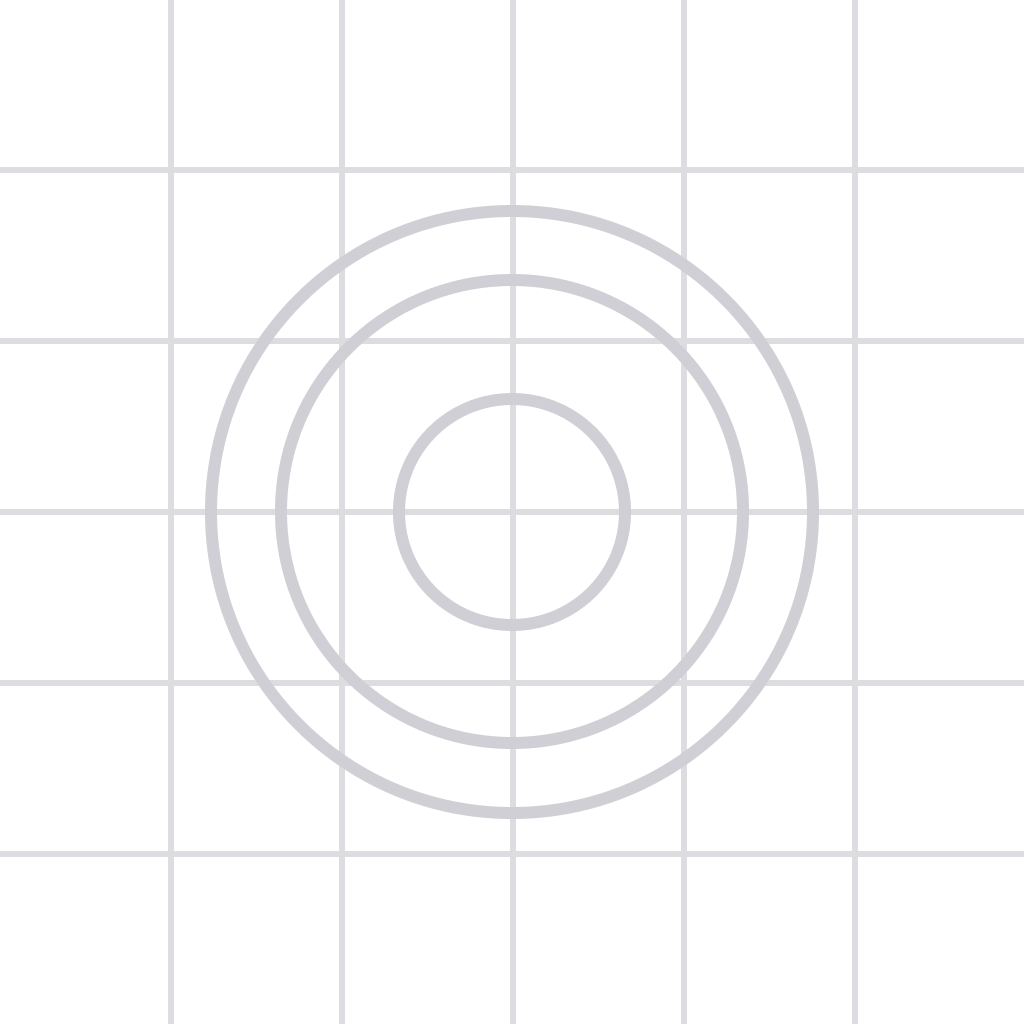
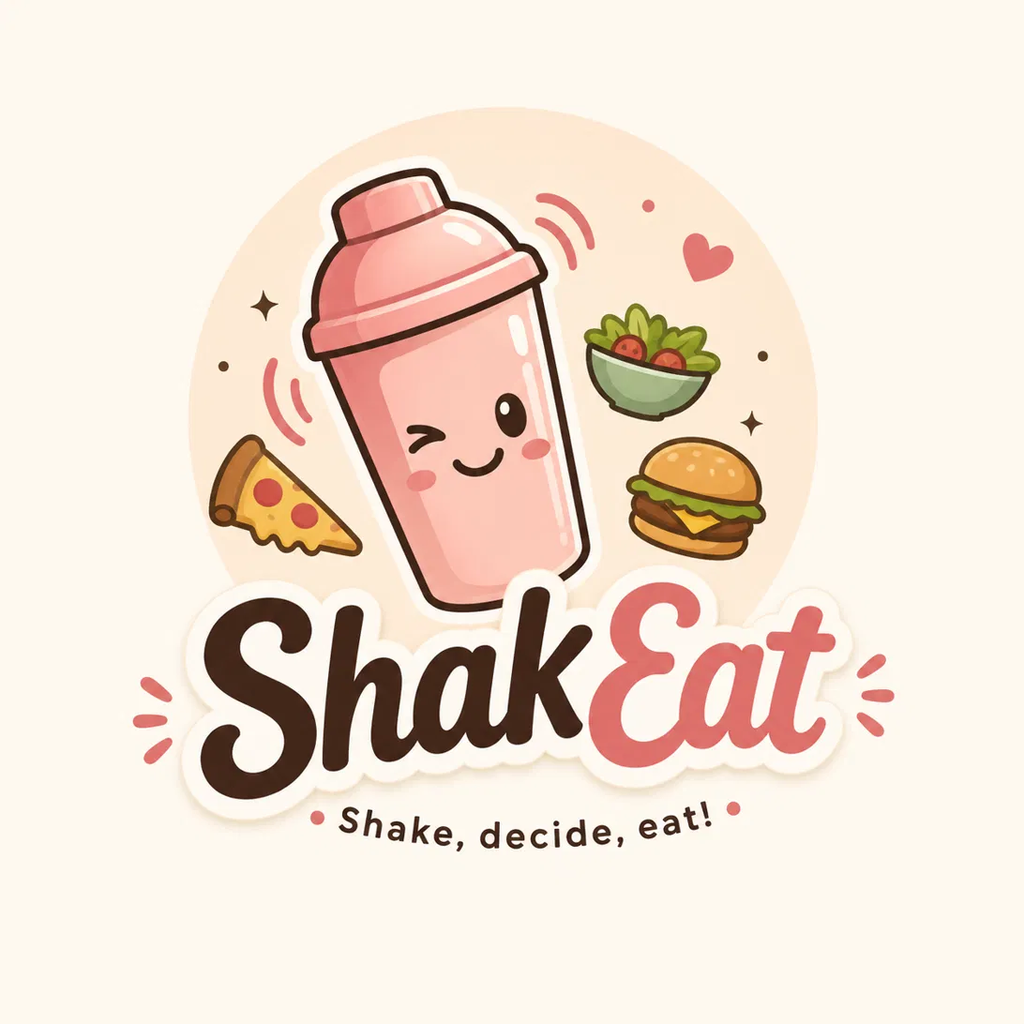
feat: ajusta vibração para impacto forte do app

diff --git a/App.js b/App.js
@@ -69,8 +69,7 @@ export default function App() {
 
           // Escolhe uma posição aleatória da lista.
           const random = foods[Math.floor(Math.random() * foods.length)];
-          Haptics.notificationAsync(Haptics.NotificationFeedbackType.Success);
-
+          Haptics.impactAsync(Haptics.ImpactFeedbackStyle.Heavy);  
           // Atualiza a tela com a comida sorteada.
           setResult(random);
         }
@@ -162,9 +161,7 @@ export default function App() {
 
             // Escolhe uma comida aleatória.
             const random = foods[Math.floor(Math.random() * foods.length)];
-             Haptics.notificationAsync(Haptics.NotificationFeedbackType.Success); 
-
-            // Atualiza o resultado.
+             Haptics.impactAsync(Haptics.ImpactFeedbackStyle.Heavy);  
             setResult(random);
           }}
         >